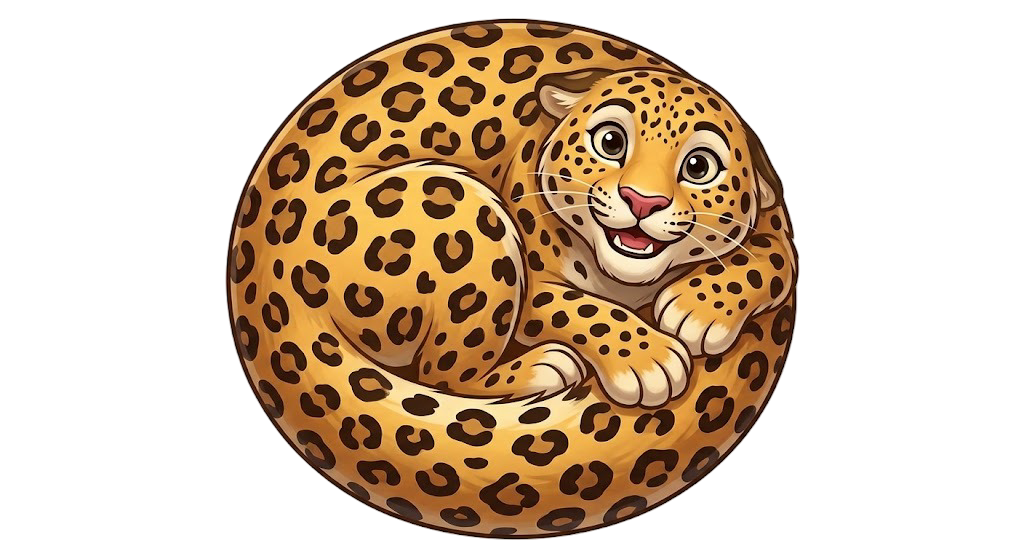
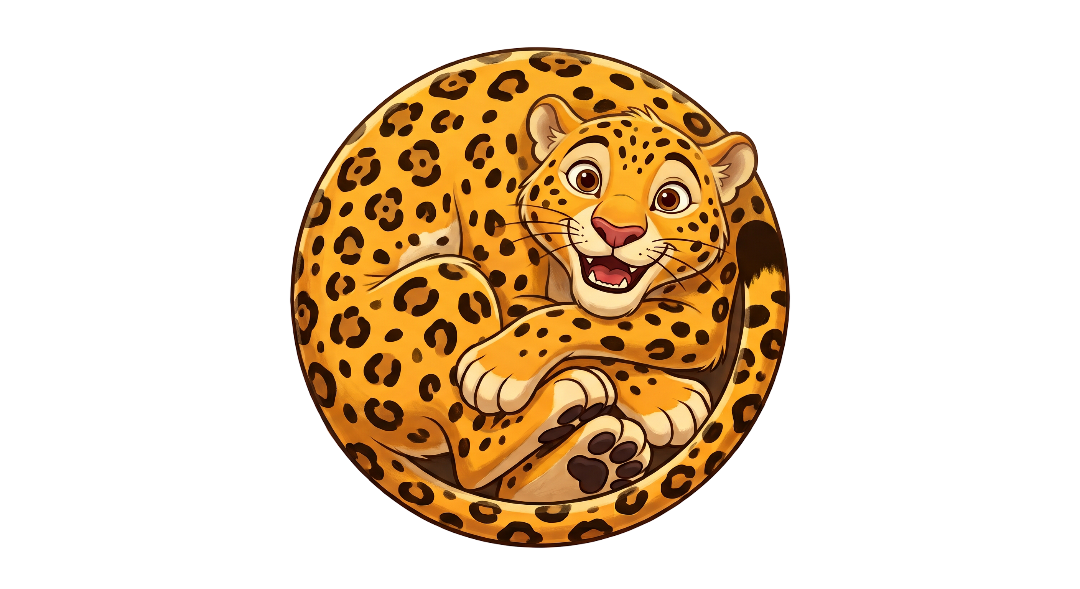
очень много изменнений

diff --git a/index.html b/index.html
@@ -11,7 +11,11 @@
             margin: 0;
             padding: 0;
             overflow: hidden;
-            background: #FDFBF7;
+            background-color: #FDFBF7;
+            background-image: url('assets/bg.jpg'); /* Глобальный фон */
+            background-size: cover;
+            background-position: center;
+            background-repeat: no-repeat;
             font-family: 'Segoe UI', Tahoma, Geneva, Verdana, sans-serif;
             touch-action: none;
             color: #4A3F35;
@@ -21,6 +25,12 @@
             justify-content: center;
             height: 100vh;
             width: 100vw;
+        }
+
+        @media (orientation: portrait) {
+            body {
+                background-image: url('assets/bg-mobile.jpg');
+            }
         }
 
         #app-wrapper {
@@ -119,13 +129,18 @@
             width: 320px; 
             height: 700px;
             box-sizing: content-box;
-            border: 22px solid transparent;
+            
+            /* Делаем стены надежным сплошным цветом, чтобы избежать багов заливки в браузерах */
+            border: 22px solid #FF8C00;
             border-top: none;
             border-radius: 0 0 182px 182px; 
             
-            /* Насыщенный теплый кремовый цвет, который не кажется белым на контрасте */
-            background: linear-gradient(#FDF0D5, #FDF0D5) padding-box,
-                        linear-gradient(180deg, #FFB347 0%, #FF6B00 100%) border-box;
+            /* Тот самый легкий теплый крем для стекла */
+            background-color: rgba(255, 250, 240, 0.4);
+            
+            /* Эффект размытия только ЗА колбой */
+            backdrop-filter: blur(10px);
+            -webkit-backdrop-filter: blur(10px);
             
             box-shadow: 0 15px 35px rgba(255, 179, 71, 0.2);
         }
@@ -135,6 +150,7 @@
             width: 100%;
             height: 100%;
             border-radius: 0 0 160px 160px;
+            background-color: transparent; /* Полностью прозрачный холст */
         }
 
         #game-over-screen {
@@ -275,22 +291,18 @@
         const GAME_WIDTH = 320; 
         const GAME_HEIGHT = 700; 
         
-        const maxRadius = 85; 
-        const minRadius = 22; 
-        const radiusStep = (maxRadius - minRadius) / 10;
-
         const CAT_LEVELS = [
-            { level: 0, imgSrc: 'assets/cat1.png', radius: minRadius, color: '#FFC0CB', points: 1, img: null, renderScale: 1.22 },
-            { level: 1, imgSrc: 'assets/cat2.png', radius: minRadius + radiusStep*1, color: '#FFD700', points: 3, img: null, renderScale: 1.22 },
-            { level: 2, imgSrc: 'assets/cat3.png', radius: minRadius + radiusStep*2, color: '#FFA07A', points: 6, img: null, renderScale: 1.22 },
-            { level: 3, imgSrc: 'assets/cat4.png', radius: minRadius + radiusStep*3, color: '#98FB98', points: 10, img: null, renderScale: 1.22 },
-            { level: 4, imgSrc: 'assets/cat5.png', radius: minRadius + radiusStep*4, color: '#20B2AA', points: 15, img: null, renderScale: 1.25 },
-            { level: 5, imgSrc: 'assets/cat6.png', radius: minRadius + radiusStep*5, color: '#87CEFA', points: 21, img: null, renderScale: 1.25 },
-            { level: 6, imgSrc: 'assets/cat7.png', radius: minRadius + radiusStep*6, color: '#9370DB', points: 28, img: null, renderScale: 1.05 }, 
-            { level: 7, imgSrc: 'assets/cat8.png', radius: minRadius + radiusStep*7, color: '#DDA0DD', points: 36, img: null, renderScale: 1.10 }, 
-            { level: 8, imgSrc: 'assets/cat9.png', radius: minRadius + radiusStep*8, color: '#F08080', points: 45, img: null, renderScale: 1.05, widthSquish: 0.85 }, 
-            { level: 9, imgSrc: 'assets/cat10.png', radius: minRadius + radiusStep*9, color: '#FF69B4', points: 55, img: null, renderScale: 1.18 }, 
-            { level: 10, imgSrc: 'assets/cat11.png', radius: maxRadius, color: '#FF4500', points: 66, img: null, renderScale: 1.08 } 
+            { level: 0, imgSrc: 'assets/cat1.png', radius: 22, color: '#FFC0CB', points: 1, img: null, renderScale: 1.22 },
+            { level: 1, imgSrc: 'assets/cat2.png', radius: 26, color: '#FFD700', points: 3, img: null, renderScale: 1.22 },
+            { level: 2, imgSrc: 'assets/cat3.png', radius: 30, color: '#FFA07A', points: 6, img: null, renderScale: 1.22 },
+            { level: 3, imgSrc: 'assets/cat4.png', radius: 36, color: '#98FB98', points: 10, img: null, renderScale: 1.22 },
+            { level: 4, imgSrc: 'assets/cat5.png', radius: 43, color: '#20B2AA', points: 15, img: null, renderScale: 1.25 },
+            { level: 5, imgSrc: 'assets/cat6.png', radius: 51, color: '#87CEFA', points: 21, img: null, renderScale: 1.15 }, 
+            { level: 6, imgSrc: 'assets/cat7.png', radius: 60, color: '#9370DB', points: 28, img: null, renderScale: 1.05 }, 
+            { level: 7, imgSrc: 'assets/cat8.png', radius: 70, color: '#DDA0DD', points: 36, img: null, renderScale: 1.05 }, 
+            { level: 8, imgSrc: 'assets/cat9.png?v=new3', radius: 82, color: '#F08080', points: 45, img: null, renderScale: 1.16 }, 
+            { level: 9, imgSrc: 'assets/cat10.png', radius: 90, color: '#FF69B4', points: 55, img: null, renderScale: 1.17 }, 
+            { level: 10, imgSrc: 'assets/cat11.png', radius: 100, color: '#FF4500', points: 66, img: null, renderScale: 1.04 } 
         ];
 
         const Engine = Matter.Engine,
@@ -319,7 +331,6 @@
         
         let lastInputX = GAME_WIDTH / 2;
 
-        // Массив для хранения анимаций слияния (лерп стягивания)
         let mergeAnimations = [];
 
         function preloadImages(callback) {
@@ -354,10 +365,10 @@
 
         function init() {
             engine = Engine.create();
-            engine.world.gravity.y = 1.6; 
+            engine.world.gravity.y = 1.0; 
             
-            engine.positionIterations = 30; 
-            engine.velocityIterations = 20;  
+            engine.positionIterations = 8; 
+            engine.velocityIterations = 6;  
 
             render = Render.create({
                 element: document.getElementById('canvas-wrapper'),
@@ -375,7 +386,8 @@
             const bowlCenterY = GAME_HEIGHT - bowlRadius; 
             const bowlParts = [];
             const numParts = 35; 
-            const partThickness = 60;
+            
+            const partThickness = 200; 
             const physicsBowlRadius = bowlRadius + (partThickness / 2); 
             
             for (let i = 0; i < numParts; i++) {
@@ -388,17 +400,18 @@
                     isStatic: true,
                     angle: angle + Math.PI / 2,
                     render: { visible: false }, 
-                    friction: 0.05
+                    friction: 0.1,
+                    restitution: 0 
                 });
                 bowlParts.push(part);
             }
 
-            const wallThickness = 60;
+            const wallThickness = 200; 
             const leftWall = Bodies.rectangle(-wallThickness/2, bowlCenterY / 2, wallThickness, GAME_HEIGHT * 2, { 
-                isStatic: true, render: { visible: false } 
+                isStatic: true, render: { visible: false }, friction: 0.1, restitution: 0 
             });
             const rightWall = Bodies.rectangle(GAME_WIDTH + wallThickness/2, bowlCenterY / 2, wallThickness, GAME_HEIGHT * 2, { 
-                isStatic: true, render: { visible: false } 
+                isStatic: true, render: { visible: false }, friction: 0.1, restitution: 0 
             });
 
             Composite.add(engine.world, [leftWall, rightWall, ...bowlParts]);
@@ -414,7 +427,7 @@
 
             setupInput();
             setupCollisions();
-            setupGameLoop(); // Заменили setupGameOverCheck
+            setupGameLoop(); 
 
             rollNextCat();
             spawnDropper(); 
@@ -488,14 +501,12 @@
         }
 
         function rollNextCat() {
-            const pool = [0,0,0,0,0,0,0, 1,1,1,1,1, 2,2,2,2, 3,3, 4,4];
-            nextCatLevel = pool[Math.floor(Math.random() * pool.length)];
-
-            // РЕЖИМ РАЗРАБОТЧИКА (Раскомментируй для спавна по порядку от 1 до 11)
-            // nextCatLevel = (nextCatLevel + 1) % 11;
-            // if (typeof window.debugCatIndex === 'undefined') window.debugCatIndex = 0;
-            // nextCatLevel = window.debugCatIndex;
-            // window.debugCatIndex = (window.debugCatIndex + 1) % 11;
+            const rand = Math.random();
+            if (rand < 0.4) nextCatLevel = 0;      
+            else if (rand < 0.7) nextCatLevel = 1; 
+            else if (rand < 0.9) nextCatLevel = 2; 
+            else if (rand < 0.97) nextCatLevel = 3;
+            else nextCatLevel = 4;                 
 
             const imgEl = document.getElementById('next-item-img');
             imgEl.src = CAT_LEVELS[nextCatLevel].imgSrc;
@@ -516,9 +527,8 @@
                 isStatic: isStatic,
                 isSensor: isStatic, 
                 label: levelIndex.toString(),
-                restitution: 0.04,
-                friction: 0.005,
-                density: 0.002, 
+                restitution: 0.1, 
+                friction: 0.1,    
                 slop: 0.05,          
                 render: { visible: false }
             });
@@ -549,13 +559,11 @@
 
                         if (level < CAT_LEVELS.length - 1) {
                             const newLevel = level + 1;
-                            // Находим центральную точку, куда они будут стягиваться
                             const midX = (bodyA.position.x + bodyB.position.x) / 2;
                             const midY = (bodyA.position.y + bodyB.position.y) / 2;
 
                             bodiesToRemove.push(bodyA, bodyB);
                             
-                            // Добавляем в массив анимаций вместо мгновенного спавна
                             mergeAnimations.push({
                                 level: level,
                                 newLevel: newLevel,
@@ -564,7 +572,7 @@
                                 x2: bodyB.position.x, y2: bodyB.position.y, angle2: bodyB.angle,
                                 midX: midX, midY: midY,
                                 startTime: Date.now(),
-                                duration: 150 // мс на анимацию стягивания
+                                duration: 150 
                             });
                         }
                     }
@@ -595,36 +603,32 @@
 
                 const now = Date.now();
                 
-                // 1. Проверяем завершение анимаций слияния и спавним новые шары
                 for (let i = mergeAnimations.length - 1; i >= 0; i--) {
                     const anim = mergeAnimations[i];
                     if (now - anim.startTime >= anim.duration) {
-                        // Спавним нового кота
                         const newCat = createCatBody(anim.midX, anim.midY, anim.newLevel);
-                        newCat.isMergeResult = true; // Флаг для анимации Pop!
+                        newCat.isMergeResult = true; 
                         newCat.createdAt = now;
                         
                         Composite.add(engine.world, newCat);
                         updateScore(anim.points);
                         createMergeExplosion(anim.midX, anim.midY);
                         
-                        // Удаляем анимацию из массива
                         mergeAnimations.splice(i, 1);
                     }
                 }
 
-                // 2. Проверяем Game Over
                 const bodies = Composite.allBodies(engine.world);
                 let anyBodyOverLine = false;
 
                 for (let i = 0; i < bodies.length; i++) {
                     const body = bodies[i];
+
                     if (body.isStatic || isNaN(parseInt(body.label))) continue;
                     
                     const radius = CAT_LEVELS[parseInt(body.label)].radius;
                     
-                    // Пересечение на 40%
-                    if ((body.position.y - radius * 0.2) < gameOverLineY && body.speed < 0.5) {
+                    if ((body.position.y - radius * 0.2) < gameOverLineY && (body.speed < 0.5)) {
                         if (Date.now() - body.createdAt > 1500) {
                             anyBodyOverLine = true;
                             break; 
@@ -669,7 +673,6 @@
             const ctx = render.context;
             const now = Date.now();
             
-            // Отрисовка пунктирной линии
             ctx.beginPath();
             ctx.moveTo(0, gameOverLineY);
             ctx.lineTo(GAME_WIDTH, gameOverLineY);
@@ -679,7 +682,6 @@
             ctx.stroke();
             ctx.setLineDash([]); 
 
-            // 1. Отрисовка обычных статичных и физических шариков
             const bodies = Composite.allBodies(engine.world);
             for (let body of bodies) {
                 if (body.label >= 0 && body.label <= 10) {
@@ -691,43 +693,38 @@
                         ctx.translate(body.position.x, body.position.y);
                         ctx.rotate(body.isStatic ? 0 : body.angle);
                         
-                        // Пружинистая анимация появления (Pop) для только что слитых
                         let popScale = 1;
                         if (body.isMergeResult) {
                             const age = now - body.createdAt;
                             const growTime = 150;
-                            const shrinkTime = 300; // Total 300ms
+                            const shrinkTime = 300; 
                             
                             if (age < growTime) {
-                                // Растет от 0 до 1.2
                                 popScale = (age / growTime) * 1.2;
                             } else if (age < shrinkTime) {
-                                // Возвращается к 1.0
                                 popScale = 1.2 - ((age - growTime) / growTime) * 0.2;
                             } else {
-                                body.isMergeResult = false; // Завершаем анимацию
+                                body.isMergeResult = false; 
                             }
                         }
                         
                         const aspectRatio = data.img.width / data.img.height;
                         const renderScale = data.renderScale; 
-                        const squish = data.widthSquish || 1; 
                         
                         const drawHeight = data.radius * 2 * renderScale * popScale;
-                        const drawWidth = drawHeight * aspectRatio * squish;
+                        const drawWidth = drawHeight * aspectRatio;
                         
                         ctx.drawImage(data.img, -drawWidth / 2, -drawHeight / 2, drawWidth, drawHeight);
+                        
                         ctx.restore();
                     }
                 }
             }
 
-            // 2. Отрисовка активных анимаций слияния (поверх остальных)
             for (let anim of mergeAnimations) {
                 const data = CAT_LEVELS[anim.level];
                 if (!data.img || !data.img.complete) continue;
 
-                // t: от 0 до 1
                 let t = (now - anim.startTime) / anim.duration;
                 if (t > 1) t = 1;
 
@@ -737,21 +734,19 @@
                     
                     ctx.save();
                     ctx.translate(currX, currY);
-                    ctx.rotate(startAngle); // Сохраняем исходный угол для красоты
+                    ctx.rotate(startAngle); 
                     
-                    // Слегка сжимаются по мере слияния (до 60% размера)
                     const shrinkScale = 1 - (0.4 * t); 
                     
                     const aspectRatio = data.img.width / data.img.height;
                     const renderScale = data.renderScale; 
-                    const squish = data.widthSquish || 1; 
                     
                     const drawHeight = data.radius * 2 * renderScale * shrinkScale;
-                    const drawWidth = drawHeight * aspectRatio * squish;
+                    const drawWidth = drawHeight * aspectRatio;
                     
-                    // Делаем слегка прозрачными в конце
                     ctx.globalAlpha = 1 - (0.3 * t); 
                     ctx.drawImage(data.img, -drawWidth / 2, -drawHeight / 2, drawWidth, drawHeight);
+                    
                     ctx.restore();
                 };
 
